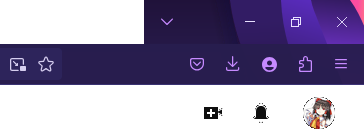
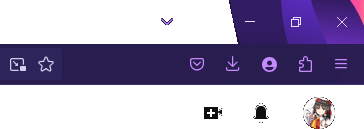
browserScreen fix

Changed region(s): [[0.3929, 0.0, 0.6648, 0.3411]]

diff --git a/Youtube/style.css b/Youtube/style.css
@@ -495,7 +495,7 @@ button.Tab_title__hAYZk[aria-selected="true"] {
 	content: url("http://127.0.0.1:2007/assets/browser.png");
 	z-index: 21;
 	left: 0;
-	top: 0;
+	top: 3px;
 }
 
 .LeftBScreen {
@@ -570,7 +570,7 @@ button.Tab_title__hAYZk[aria-selected="true"] {
 .firstColorBlock {
 	position: relative;
 	top: 0;
-	margin-left: 220px;
+	margin-left: 197px;
 	background-color: #22153F;
 	width: 100%;
 	height: 44px;
